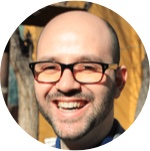
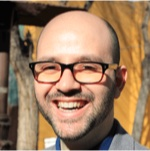
Image style

Changed region(s): [[0.0, 0.5033, 1.0, 1.0], [0.0, 0.0, 1.0, 0.4768]]

diff --git a/team/index.html b/team/index.html
@@ -17,7 +17,7 @@ with interests in music, arts and technology.</h2>
     
 <div class="team-bg daniel-bg">
     <div class="container">
-        <div class="col-lg-6 col-lg-offset-3">
+        <div class="col-lg-7 col-lg-offset-1">
         <img src="../images/daniel.jpg" class="team-portratit">
         <h3>Daniel Lombraña</h3>
         <p>Daniel is our boss. A computer engineer with a PhD in parallel genetic programming on volunteer desktop grids. He is also a senior researcher at the Citizen Cyberscience Centre and a fellow of the Shuttleworth Foundation. He's by far the smartest of us all. </p>

diff --git a/_sass/team/_all.scss b/_sass/team/_all.scss
@@ -6,12 +6,14 @@
 .team-portratit{
 	float: left;
 	margin-right: 40px;
+	border-radius: 50%;
 }
 
 .team-bg h3{
 	font-size: 18px;
 	color: #077CA0;
 	font-weight: bold;
+	margin-top: 0px;
 
 }
 
